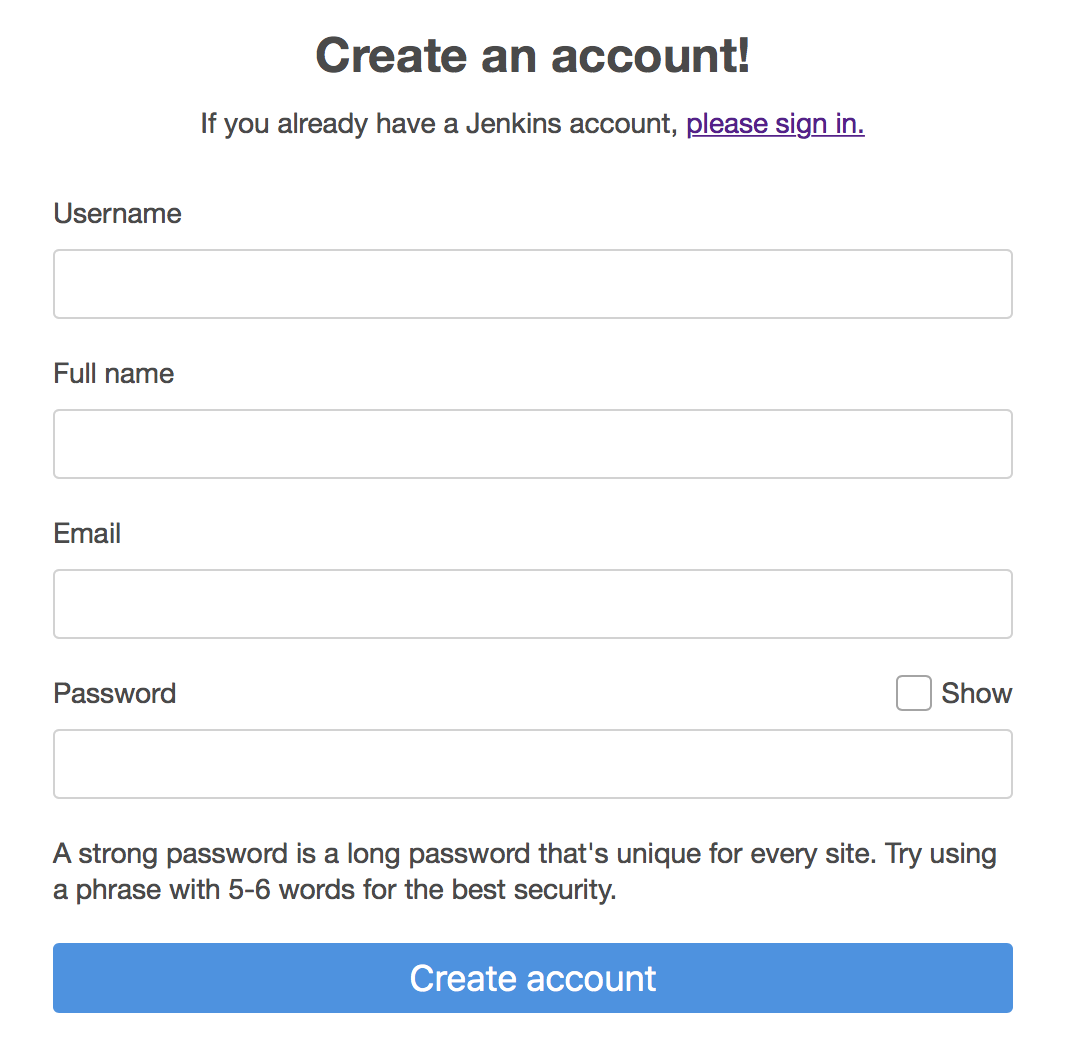
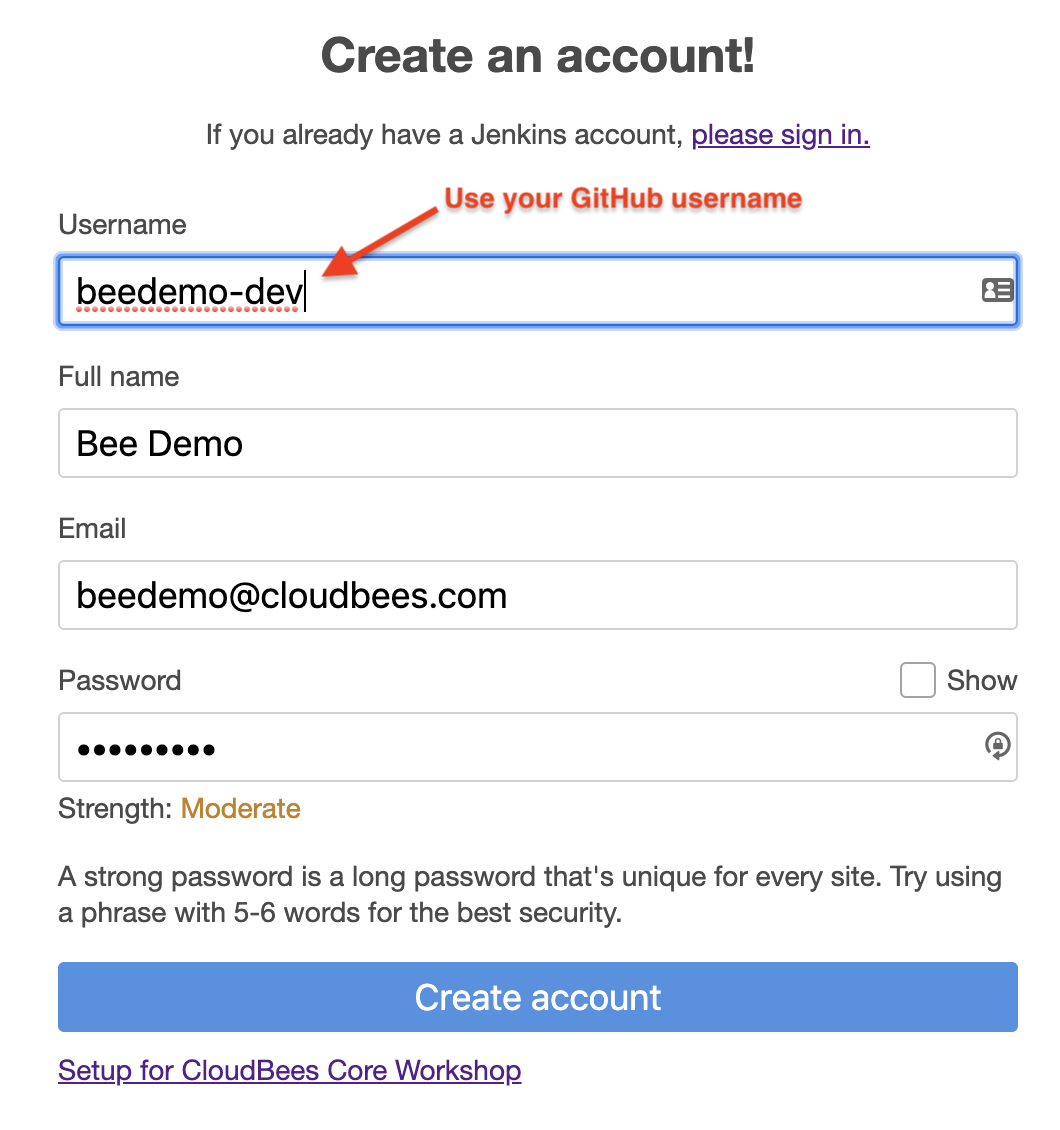
Update screenshots

diff --git a/Setup.md b/Setup.md
@@ -20,11 +20,11 @@ Next, everyone will get their own Jenkins masters referred to as a Team Master.
 
 1. If not in CloudBees Team UI, click on the **Teams** link in the left menu; <p><img src="img/setup/setup-classic-ui-Teams-link.png" width=400/>
 2. Click on the **Create team** button in the center of your screen;<p><img src="img/setup/setup-create-a-team.png" width=300/>
-3. **Name this team** - enter a name for your team - **IMPORTANT: to ensure uniqueness, use your GitHub username** and then click **Next**;
+3. **Name this team** - enter a name for your team - **IMPORTANT: to ensure uniqueness, use your GitHub username** and then click **Next**;<p><img src="img/setup/setup-name-this-team.png" width=450/>
 4. **Choose an icon for this team** to help uniquely identify your team - select an icon and color for your team and then click **Next**;
 5. **Add people to this team** - your user will show up as a **Team Admin** and we won't be adding any additional users right now, but feel free to look around and then click **Next**;
 6. **Select team master creation recipe** - click on the drop-down to see the options, but select the top option: **Workshop Default** recipe;<p><img src="img/setup/setup-create-team-recipe-2.png" width=450/>
-7. Finally, click the **Create team** button. 
+7. Finally, click the **Create team** button. <p><img src="img/setup/setup-create-team.png" width=450/>
 8. While your master is being  created (**it takes anywhere from 2-3 minutes to provision your Team Master**), move onto the next section **Create a GitHub.com user account**
 
 ## Create a GitHub.com user account
@@ -47,8 +47,8 @@ Create a Github organization to use for this workshop:
 
 1. On Github navigate to **Organizations**: https://github.com/settings/organizations (after logging in) 
 2. Click on **New Organization** <p><img src="img/setup/setup-github-new-org.png" width=550/>
-3. Fill in the **Organization Name**, **Billing Email**, and click on **Create Organization**<p><img src="img/setup/setup-create-org.png" width=400/>
-4. On the **Invite organization members** - just click the **Finish** button.
+3. Fill in the **Organization Name**, **Billing Email**, and click on **Create Organization**<p><img src="img/setup/setup-create-org.png" width=550/>
+4. On the **Invite organization members** - just click the **Continue** button. On the next page **Enter Organization Details** either click **Submit** button or **skip this step** to finish creating the organization.
 
 >NOTE: Even though you have to provide an email for billing, you will not be charged anything as long as you choose the free option.
 
@@ -56,7 +56,9 @@ Create a Github organization to use for this workshop:
 
 The workshop utilizes the **helloworld-nodejs** repository from the [CloudBees Days GitHub Organization](https://github.com/cloudbees-days). Fork the **helloworld-nodejs** repository into the GitHub Organization that you created above (if you are not sure how to fork a repository - see this [GitHub Guide on forking](https://guides.github.com/activities/forking/)):
 
-* https://github.com/cloudbees-days/helloworld-nodejs 
+* https://github.com/cloudbees-days/helloworld-nodejs
+
+<p><img src="img/setup/setup-fork-repo.png" width=600/>
 
 ## Finished Setup
 You should see the following **Create a new Pipeline** screen for your Team:
